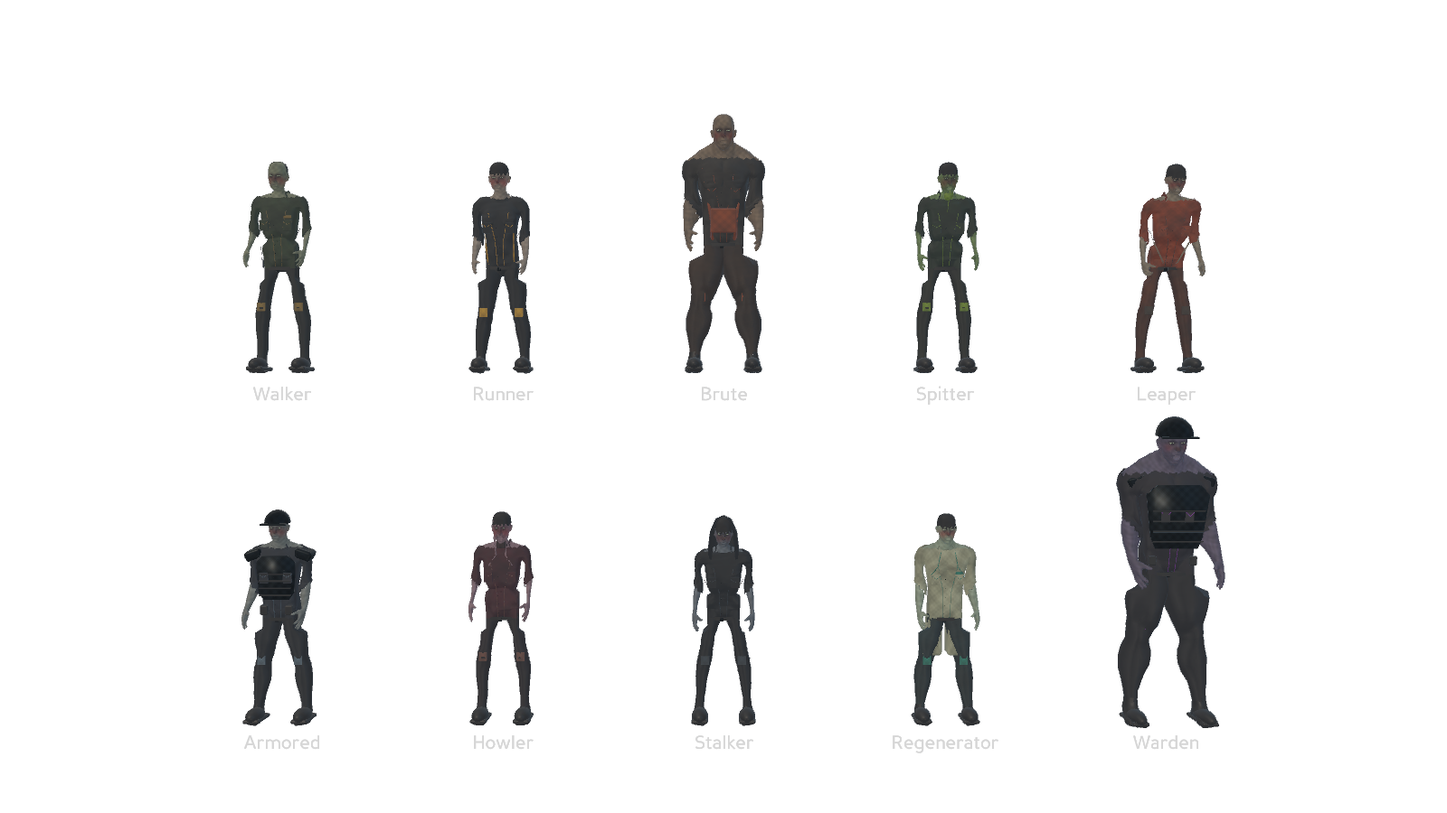
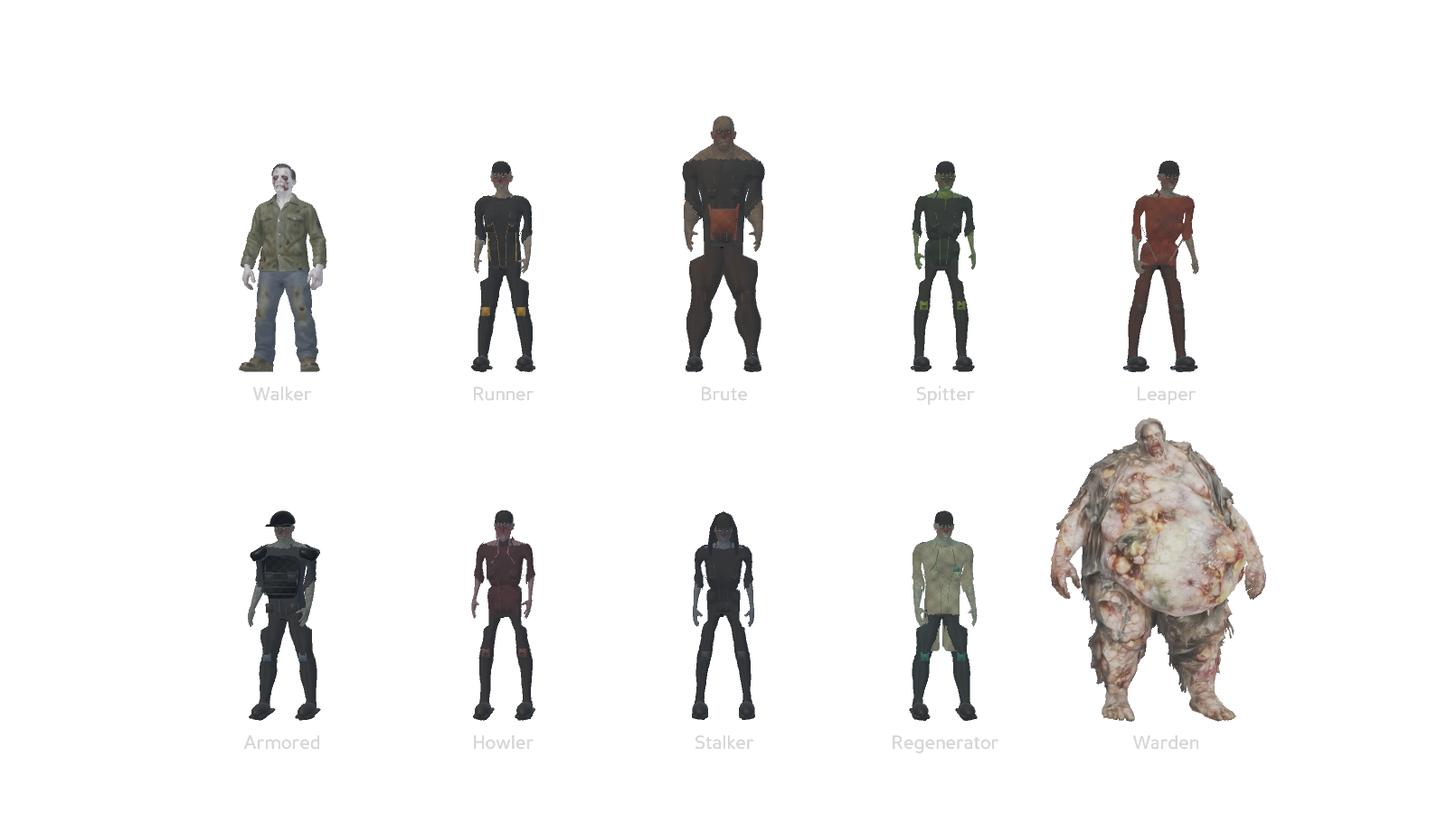
docs(art): publish verified Warden and animated gameplay handoff

diff --git a/assets/previews/gallery.html b/assets/previews/gallery.html
@@ -17,10 +17,10 @@ h1{font-size:32px;line-height:1.2;margin:8px 0 12px;letter-spacing:-1px}p{color:
 <nav class="tabs" aria-label="Vrsta modela"><button id="zombies" aria-pressed="true">Zombiji</button><button id="weapons" aria-pressed="false">Oružje</button><button class="outline" id="engine">Pogledaj u igri ↗</button></nav>
 <section class="hero" aria-label="Izabrani model"><div class="stage"><img id="main-image" alt=""></div><div class="details"><div class="eyebrow" id="design"></div><h2 id="name"></h2><div class="metrics" id="metrics"></div><a class="source" id="blend">Otvori Blender fajl ↗</a><div class="hint">Primer zvuka</div><audio class="sound" id="audio" controls preload="none"></audio><div class="hint">Blender 4.5 / 5.3 · teksture sačuvane u fajlu</div></div></section>
 <div class="cards" id="cards" aria-label="Dostupni modeli"></div>
-</main><footer>Prva anatomska Blender iteracija. Koncept slike ostaju vizuelni cilj; detaljna skeletna animacija i završna obrada mapa tek slede. <a href="../../docs/blender-workshop.md">Radni tok i izvori</a></footer>
-<dialog id="captures"><div class="dialogbar"><strong>Panda3D · stvarni prikaz</strong><button data-capture="zombie-roster.png">Zombiji</button><button data-capture="weapons.png">Oružje</button><button data-capture="gameplay.png">Gameplay</button><button id="close-captures" aria-label="Zatvori pregled">✕</button></div><img id="capture-image" src="zombie-roster.png" alt="Modeli prikazani u igri"></dialog>
+</main><footer>Skeletno animirani modeli, isporučeni Warden i lokalna dorada prvog dvorišta. Ostale mape zadržavaju raniju scenografiju; koncept slike ostaju vizuelni cilj. <a href="../../docs/blender-workshop.md">Radni tok i izvori</a></footer>
+<dialog id="captures"><div class="dialogbar"><strong>Panda3D · stvarni prikaz</strong><button data-capture="zombie-roster.png">Zombiji</button><button data-capture="weapons.png">Oružje</button><button data-capture="gameplay.png">Gameplay</button><button data-capture="gameplay-motion.png">Animacije</button><button id="close-captures" aria-label="Zatvori pregled">✕</button></div><img id="capture-image" src="zombie-roster.png" alt="Modeli prikazani u igri"></dialog>
 <script>
-const data={"zombies": [{"name": "Walker", "design": "The Groundskeeper / Hyper3D Rodin", "image": "characters/walker.png", "blend": "../blender/characters/walker.blend", "audio": "../../breach_shift/data/audio/growl_1.wav", "summary": "75 HP", "metrics": [{"value": 75, "label": "HP"}, {"value": 12, "label": "DAMAGE"}, {"value": "1.2 m/s", "label": "BRZINA"}, {"value": "1.8 m", "label": "VISINA"}]}, {"name": "Runner", "design": "The Night Runner", "image": "characters/runner.png", "blend": "../blender/characters/runner.blend", "audio": "../../breach_shift/data/audio/growl_1.wav", "summary": "100 HP", "metrics": [{"value": 100, "label": "HP"}, {"value": 8, "label": "DAMAGE"}, {"value": "2.8 m/s", "label": "BRZINA"}, {"value": "1.8 m", "label": "VISINA"}]}, {"name": "Brute", "design": "The Foundry Worker", "image": "characters/brute.png", "blend": "../blender/characters/brute.blend", "audio": "../../breach_shift/data/audio/growl_1.wav", "summary": "150 HP", "metrics": [{"value": 150, "label": "HP"}, {"value": 28, "label": "DAMAGE"}, {"value": "0.8 m/s", "label": "BRZINA"}, {"value": "2.2 m", "label": "VISINA"}]}, {"name": "Spitter", "design": "The Contaminated", "image": "characters/spitter.png", "blend": "../blender/characters/spitter.blend", "audio": "../../breach_shift/data/audio/growl_1.wav", "summary": "180 HP", "metrics": [{"value": 180, "label": "HP"}, {"value": 10, "label": "DAMAGE"}, {"value": "1.1 m/s", "label": "BRZINA"}, {"value": "1.8 m", "label": "VISINA"}]}, {"name": "Leaper", "design": "The Escaped Patient", "image": "characters/leaper.png", "blend": "../blender/characters/leaper.blend", "audio": "../../breach_shift/data/audio/growl_1.wav", "summary": "220 HP", "metrics": [{"value": 220, "label": "HP"}, {"value": 18, "label": "DAMAGE"}, {"value": "1.5 m/s", "label": "BRZINA"}, {"value": "1.8 m", "label": "VISINA"}]}, {"name": "Armored", "design": "The Riot Guard", "image": "characters/armored.png", "blend": "../blender/characters/armored.blend", "audio": "../../breach_shift/data/audio/growl_1.wav", "summary": "270 HP", "metrics": [{"value": 270, "label": "HP"}, {"value": 16, "label": "DAMAGE"}, {"value": "1.0 m/s", "label": "BRZINA"}, {"value": "1.8 m", "label": "VISINA"}]}, {"name": "Howler", "design": "The Mourner", "image": "characters/howler.png", "blend": "../blender/characters/howler.blend", "audio": "../../breach_shift/data/audio/growl_1.wav", "summary": "320 HP", "metrics": [{"value": 320, "label": "HP"}, {"value": 11, "label": "DAMAGE"}, {"value": "0.9 m/s", "label": "BRZINA"}, {"value": "1.8 m", "label": "VISINA"}]}, {"name": "Stalker", "design": "The Watcher", "image": "characters/stalker.png", "blend": "../blender/characters/stalker.blend", "audio": "../../breach_shift/data/audio/growl_1.wav", "summary": "380 HP", "metrics": [{"value": 380, "label": "HP"}, {"value": 14, "label": "DAMAGE"}, {"value": "1.8 m/s", "label": "BRZINA"}, {"value": "1.8 m", "label": "VISINA"}]}, {"name": "Regenerator", "design": "The Researcher", "image": "characters/regenerator.png", "blend": "../blender/characters/regenerator.blend", "audio": "../../breach_shift/data/audio/growl_1.wav", "summary": "450 HP", "metrics": [{"value": 450, "label": "HP"}, {"value": 15, "label": "DAMAGE"}, {"value": "1.0 m/s", "label": "BRZINA"}, {"value": "1.8 m", "label": "VISINA"}]}, {"name": "Warden", "design": "The Breach Warden", "image": "characters/warden.png", "blend": "../blender/characters/warden.blend", "audio": "../../breach_shift/data/audio/growl_1.wav", "summary": "800 HP", "metrics": [{"value": 800, "label": "HP"}, {"value": 35, "label": "DAMAGE"}, {"value": "0.9 m/s", "label": "BRZINA"}, {"value": "2.6 m", "label": "VISINA"}]}], "weapons": [{"name": "Pistol", "design": "Breach Shift · originalni model", "image": "weapons/pistol.png", "blend": "../blender/weapons/pistol.blend", "audio": "../../breach_shift/data/audio/pistol.wav", "summary": "25 DMG", "metrics": [{"value": 25, "label": "DAMAGE PO HICU"}, {"value": 12, "label": "KAPACITET OKVIRA"}, {"value": "1.5s", "label": "PUNJENJE"}, {"value": 1, "label": "PROJEKTILA PO HICU"}]}, {"name": "SMG", "design": "Breach Shift · originalni model", "image": "weapons/smg.png", "blend": "../blender/weapons/smg.blend", "audio": "../../breach_shift/data/audio/smg.wav", "summary": "14 DMG", "metrics": [{"value": 14, "label": "DAMAGE PO HICU"}, {"value": 30, "label": "KAPACITET OKVIRA"}, {"value": "1.8s", "label": "PUNJENJE"}, {"value": 1, "label": "PROJEKTILA PO HICU"}]}, {"name": "Rifle", "design": "Hyper3D Rodin", "image": "weapons/rifle.png", "blend": "../blender/weapons/rifle.blend", "audio": "../../breach_shift/data/audio/rifle.wav", "summary": "38 DMG", "metrics": [{"value": 38, "label": "DAMAGE PO HICU"}, {"value": 24, "label": "KAPACITET OKVIRA"}, {"value": "2.1s", "label": "PUNJENJE"}, {"value": 1, "label": "PROJEKTILA PO HICU"}]}, {"name": "Shotgun", "design": "Breach Shift · originalni model", "image": "weapons/shotgun.png", "blend": "../blender/weapons/shotgun.blend", "audio": "../../breach_shift/data/audio/shotgun.wav", "summary": "96 DMG", "metrics": [{"value": 96, "label": "DAMAGE PO HICU"}, {"value": 6, "label": "KAPACITET OKVIRA"}, {"value": "2.8s", "label": "PUNJENJE"}, {"value": 6, "label": "PROJEKTILA PO HICU"}]}]};let category='zombies',selected=0;
+const data={"zombies": [{"name": "Walker", "design": "The Groundskeeper / Hyper3D Rodin", "image": "characters/walker.png", "blend": "../blender/characters/walker.blend", "audio": "../../breach_shift/data/audio/growl_1.wav", "summary": "75 HP", "metrics": [{"value": 75, "label": "HP"}, {"value": 12, "label": "DAMAGE"}, {"value": "1.44 m/s", "label": "POTERA"}, {"value": "1.8 m", "label": "VISINA"}]}, {"name": "Runner", "design": "The Night Runner / Breach Shift / MakeHuman", "image": "characters/runner.png", "blend": "../blender/characters/runner.blend", "audio": "../../breach_shift/data/audio/growl_1.wav", "summary": "100 HP", "metrics": [{"value": 100, "label": "HP"}, {"value": 8, "label": "DAMAGE"}, {"value": "3.36 m/s", "label": "POTERA"}, {"value": "1.8 m", "label": "VISINA"}]}, {"name": "Brute", "design": "The Foundry Worker / Breach Shift / MakeHuman", "image": "characters/brute.png", "blend": "../blender/characters/brute.blend", "audio": "../../breach_shift/data/audio/growl_1.wav", "summary": "150 HP", "metrics": [{"value": 150, "label": "HP"}, {"value": 28, "label": "DAMAGE"}, {"value": "0.96 m/s", "label": "POTERA"}, {"value": "2.2 m", "label": "VISINA"}]}, {"name": "Spitter", "design": "The Contaminated / Breach Shift / MakeHuman", "image": "characters/spitter.png", "blend": "../blender/characters/spitter.blend", "audio": "../../breach_shift/data/audio/growl_1.wav", "summary": "180 HP", "metrics": [{"value": 180, "label": "HP"}, {"value": 10, "label": "DAMAGE"}, {"value": "1.32 m/s", "label": "POTERA"}, {"value": "1.8 m", "label": "VISINA"}]}, {"name": "Leaper", "design": "The Escaped Patient / Breach Shift / MakeHuman", "image": "characters/leaper.png", "blend": "../blender/characters/leaper.blend", "audio": "../../breach_shift/data/audio/growl_1.wav", "summary": "220 HP", "metrics": [{"value": 220, "label": "HP"}, {"value": 18, "label": "DAMAGE"}, {"value": "1.80 m/s", "label": "POTERA"}, {"value": "1.8 m", "label": "VISINA"}]}, {"name": "Armored", "design": "The Riot Guard / Breach Shift / MakeHuman", "image": "characters/armored.png", "blend": "../blender/characters/armored.blend", "audio": "../../breach_shift/data/audio/growl_1.wav", "summary": "270 HP", "metrics": [{"value": 270, "label": "HP"}, {"value": 16, "label": "DAMAGE"}, {"value": "1.20 m/s", "label": "POTERA"}, {"value": "1.8 m", "label": "VISINA"}]}, {"name": "Howler", "design": "The Mourner / Breach Shift / MakeHuman", "image": "characters/howler.png", "blend": "../blender/characters/howler.blend", "audio": "../../breach_shift/data/audio/growl_1.wav", "summary": "320 HP", "metrics": [{"value": 320, "label": "HP"}, {"value": 11, "label": "DAMAGE"}, {"value": "1.08 m/s", "label": "POTERA"}, {"value": "1.8 m", "label": "VISINA"}]}, {"name": "Stalker", "design": "The Watcher / Breach Shift / MakeHuman", "image": "characters/stalker.png", "blend": "../blender/characters/stalker.blend", "audio": "../../breach_shift/data/audio/growl_1.wav", "summary": "380 HP", "metrics": [{"value": 380, "label": "HP"}, {"value": 14, "label": "DAMAGE"}, {"value": "2.16 m/s", "label": "POTERA"}, {"value": "1.8 m", "label": "VISINA"}]}, {"name": "Regenerator", "design": "The Researcher / Breach Shift / MakeHuman", "image": "characters/regenerator.png", "blend": "../blender/characters/regenerator.blend", "audio": "../../breach_shift/data/audio/growl_1.wav", "summary": "450 HP", "metrics": [{"value": 450, "label": "HP"}, {"value": 15, "label": "DAMAGE"}, {"value": "1.20 m/s", "label": "POTERA"}, {"value": "1.8 m", "label": "VISINA"}]}, {"name": "Warden", "design": "The Breach Warden / User-supplied", "image": "characters/warden.png", "blend": "../blender/characters/warden.blend", "audio": "../../breach_shift/data/audio/growl_1.wav", "summary": "800 HP", "metrics": [{"value": 800, "label": "HP"}, {"value": 35, "label": "DAMAGE"}, {"value": "1.08 m/s", "label": "POTERA"}, {"value": "2.6 m", "label": "VISINA"}]}], "weapons": [{"name": "Pistol", "design": "Breach Shift · originalni model", "image": "weapons/pistol.png", "blend": "../blender/weapons/pistol.blend", "audio": "../../breach_shift/data/audio/pistol.wav", "summary": "25 DMG", "metrics": [{"value": 25, "label": "DAMAGE PO HICU"}, {"value": 12, "label": "KAPACITET OKVIRA"}, {"value": "1.5s", "label": "PUNJENJE"}, {"value": 1, "label": "PROJEKTILA PO HICU"}]}, {"name": "SMG", "design": "Breach Shift · originalni model", "image": "weapons/smg.png", "blend": "../blender/weapons/smg.blend", "audio": "../../breach_shift/data/audio/smg.wav", "summary": "14 DMG", "metrics": [{"value": 14, "label": "DAMAGE PO HICU"}, {"value": 30, "label": "KAPACITET OKVIRA"}, {"value": "1.8s", "label": "PUNJENJE"}, {"value": 1, "label": "PROJEKTILA PO HICU"}]}, {"name": "Rifle", "design": "Hyper3D Rodin", "image": "weapons/rifle.png", "blend": "../blender/weapons/rifle.blend", "audio": "../../breach_shift/data/audio/rifle.wav", "summary": "38 DMG", "metrics": [{"value": 38, "label": "DAMAGE PO HICU"}, {"value": 24, "label": "KAPACITET OKVIRA"}, {"value": "2.1s", "label": "PUNJENJE"}, {"value": 1, "label": "PROJEKTILA PO HICU"}]}, {"name": "Shotgun", "design": "Breach Shift · originalni model", "image": "weapons/shotgun.png", "blend": "../blender/weapons/shotgun.blend", "audio": "../../breach_shift/data/audio/shotgun.wav", "summary": "96 DMG", "metrics": [{"value": 96, "label": "DAMAGE PO HICU"}, {"value": 6, "label": "KAPACITET OKVIRA"}, {"value": "2.8s", "label": "PUNJENJE"}, {"value": 6, "label": "PROJEKTILA PO HICU"}]}]};let category='zombies',selected=0;
 function choose(index){selected=index;const model=data[category][index];document.getElementById('main-image').src=model.image;document.getElementById('main-image').alt=model.name+' — Blender render';document.getElementById('name').textContent=model.name;document.getElementById('design').textContent=model.design;document.getElementById('metrics').innerHTML=model.metrics.map(m=>'<div class="metric"><b>'+m.value+'</b><span>'+m.label+'</span></div>').join('');document.getElementById('blend').href=model.blend;const sound=document.getElementById('audio');sound.pause();sound.src=model.audio;document.querySelectorAll('.card').forEach((card,i)=>card.setAttribute('aria-pressed',String(i===index)));}
 function show(group){category=group;for(const id of ['zombies','weapons'])document.getElementById(id).setAttribute('aria-pressed',String(id===group));const cards=document.getElementById('cards');cards.replaceChildren();data[group].forEach((model,i)=>{const button=document.createElement('button');button.className='card';button.setAttribute('aria-label',model.name);button.innerHTML='<img src="'+model.image+'" alt="" loading="lazy"><strong>'+model.name+'</strong><small>'+model.summary+'</small>';button.onclick=()=>choose(i);cards.append(button)});choose(0)}
 document.getElementById('zombies').onclick=()=>show('zombies');document.getElementById('weapons').onclick=()=>show('weapons');document.getElementById('engine').onclick=()=>document.getElementById('captures').showModal();document.getElementById('close-captures').onclick=()=>document.getElementById('captures').close();for(const button of document.querySelectorAll('[data-capture]'))button.onclick=()=>document.getElementById('capture-image').src=button.dataset.capture;show('zombies');

diff --git a/tools/art/build_gallery.py b/tools/art/build_gallery.py
@@ -28,8 +28,8 @@ h1{font-size:32px;line-height:1.2;margin:8px 0 12px;letter-spacing:-1px}p{color:
 <nav class="tabs" aria-label="Vrsta modela"><button id="zombies" aria-pressed="true">Zombiji</button><button id="weapons" aria-pressed="false">Oružje</button><button class="outline" id="engine">Pogledaj u igri ↗</button></nav>
 <section class="hero" aria-label="Izabrani model"><div class="stage"><img id="main-image" alt=""></div><div class="details"><div class="eyebrow" id="design"></div><h2 id="name"></h2><div class="metrics" id="metrics"></div><a class="source" id="blend">Otvori Blender fajl ↗</a><div class="hint">Primer zvuka</div><audio class="sound" id="audio" controls preload="none"></audio><div class="hint">Blender 4.5 / 5.3 · teksture sačuvane u fajlu</div></div></section>
 <div class="cards" id="cards" aria-label="Dostupni modeli"></div>
-</main><footer>Prva anatomska Blender iteracija. Koncept slike ostaju vizuelni cilj; detaljna skeletna animacija i završna obrada mapa tek slede. <a href="../../docs/blender-workshop.md">Radni tok i izvori</a></footer>
-<dialog id="captures"><div class="dialogbar"><strong>Panda3D · stvarni prikaz</strong><button data-capture="zombie-roster.png">Zombiji</button><button data-capture="weapons.png">Oružje</button><button data-capture="gameplay.png">Gameplay</button><button id="close-captures" aria-label="Zatvori pregled">✕</button></div><img id="capture-image" src="zombie-roster.png" alt="Modeli prikazani u igri"></dialog>
+</main><footer>Skeletno animirani modeli, isporučeni Warden i lokalna dorada prvog dvorišta. Ostale mape zadržavaju raniju scenografiju; koncept slike ostaju vizuelni cilj. <a href="../../docs/blender-workshop.md">Radni tok i izvori</a></footer>
+<dialog id="captures"><div class="dialogbar"><strong>Panda3D · stvarni prikaz</strong><button data-capture="zombie-roster.png">Zombiji</button><button data-capture="weapons.png">Oružje</button><button data-capture="gameplay.png">Gameplay</button><button data-capture="gameplay-motion.png">Animacije</button><button id="close-captures" aria-label="Zatvori pregled">✕</button></div><img id="capture-image" src="zombie-roster.png" alt="Modeli prikazani u igri"></dialog>
 <script>
 const data=__DATA__;let category='zombies',selected=0;
 function choose(index){selected=index;const model=data[category][index];document.getElementById('main-image').src=model.image;document.getElementById('main-image').alt=model.name+' — Blender render';document.getElementById('name').textContent=model.name;document.getElementById('design').textContent=model.design;document.getElementById('metrics').innerHTML=model.metrics.map(m=>'<div class="metric"><b>'+m.value+'</b><span>'+m.label+'</span></div>').join('');document.getElementById('blend').href=model.blend;const sound=document.getElementById('audio');sound.pause();sound.src=model.audio;document.querySelectorAll('.card').forEach((card,i)=>card.setAttribute('aria-pressed',String(i===index)));}
@@ -52,7 +52,7 @@ def main():
             "image": f"characters/{kind.value}.png", "blend": f"../blender/characters/{kind.value}.blend",
             "audio": "../../breach_shift/data/audio/growl_1.wav", "summary": f"{spec.health} HP",
             "metrics": [{"value": spec.health, "label": "HP"}, {"value": spec.damage, "label": "DAMAGE"},
-                        {"value": f"{spec.speed} m/s", "label": "BRZINA"}, {"value": f"{spec.height} m", "label": "VISINA"}]})
+                        {"value": f"{spec.speed*1.2:.2f} m/s", "label": "POTERA"}, {"value": f"{spec.height} m", "label": "VISINA"}]})
     for kind in WEAPON_ORDER:
         spec = WEAPON_SPECS[kind]
         source = provider("weapons", kind) or "Breach Shift · originalni model"

diff --git a/tools/blender/render_production_asset.py b/tools/blender/render_production_asset.py
@@ -13,10 +13,19 @@ def render(source, output, category):
     bpy.ops.import_scene.gltf(filepath=str(source.resolve()))
     bpy.context.view_layer.update()
     scene=bpy.context.scene
-    points=[obj.matrix_world@Vector(corner) for obj in scene.objects if obj.type=='MESH' for corner in obj.bound_box]
+    points=[]
+    graph=bpy.context.evaluated_depsgraph_get()
+    for obj in scene.objects:
+        if obj.type!='MESH':continue
+        evaluated=obj.evaluated_get(graph)
+        mesh=evaluated.to_mesh()
+        points.extend(evaluated.matrix_world@vertex.co for vertex in mesh.vertices)
+        evaluated.to_mesh_clear()
     low=Vector(tuple(min(point[axis] for point in points) for axis in range(3)))
     high=Vector(tuple(max(point[axis] for point in points) for axis in range(3)))
     center=(low+high)/2;span=max(high-low)
+    if category=='characters':
+        center.z+=span*.15
     scene.render.engine='BLENDER_EEVEE'
     scene.render.resolution_x,scene.render.resolution_y=(1440,900) if category=='weapons' else (960,1200)
     scene.render.resolution_percentage=100
@@ -24,13 +33,15 @@ def render(source, output, category):
     scene.world.use_nodes=True
     scene.world.node_tree.nodes['Background'].inputs['Color'].default_value=(.025,.035,.05,1)
     scene.world.node_tree.nodes['Background'].inputs['Strength'].default_value=.5
+    if category=='characters':
+        scene.world.node_tree.nodes['Background'].inputs['Color'].default_value=(.10,.13,.17,1)
     for name,position,power,color in (
             ('key',(2,3,3),1100,(1,.86,.7)),
             ('fill',(-2,2,2),750,(.62,.78,1)),
             ('rim',(0,-3,3),1500,(.8,.9,1))):
         data=bpy.data.lights.new(name,'AREA');data.energy=power;data.color=color;data.size=span*1.6
         obj=bpy.data.objects.new(name,data);bpy.context.collection.objects.link(obj)
-        obj.location=center+Vector(position)*span
+        obj.location=center+Vector(position)*span*(.55 if category=='characters' else 1)
         obj.rotation_euler=(center-obj.location).to_track_quat('-Z','Y').to_euler()
     data=bpy.data.cameras.new('Review_camera');camera=bpy.data.objects.new('Review_camera',data)
     bpy.context.collection.objects.link(camera)

diff --git a/docs/warden-and-motion.md b/docs/warden-and-motion.md
@@ -1,0 +1,61 @@
+# Supplied Warden and local motion pass
+
+The user-supplied PBR GLB replaces the Warden on map 10. It was imported through
+the active local BlenderMCP connection and inspected with
+`get_viewport_screenshot`. No fal.ai generation, retry or paid add-on was used.
+
+| Measurement | Supplied mesh | Game mesh |
+| --- | --- | --- |
+| Triangles | 500,000 | 11,800 |
+| Dimensions (X / Y / Z) | 1.366 / 0.928 / 1.893 m | 1.876 / 1.281 / 2.600 m |
+| Forward / up | -Y / +Z | +Y / +Z |
+| PBR maps | Three embedded 2K maps | Three embedded 2K maps |
+| Skeleton | None | 17 bones, normalized four-weight skin |
+
+The [game GLB](../assets/models/characters/warden.glb) and
+[packed editable source](../assets/blender/characters/warden.blend) retain UVs
+and a hidden detailed source. The [viewport inspection](../assets/previews/characters/warden-viewport.png)
+shows the reimported optimized export. Transforms are applied, feet sit at Z=0,
+and one unit is one metre. Standard glTF Y-up encoding is converted correctly
+by `panda3d-gltf`.
+
+Eight earlier MakeHuman/Breach Shift character designs also receive local
+humanoid rigs and UV-preserving decimation: 11,798-11,800 triangles each. The
+existing generated Walker remains at 11,800. These are edits to retained assets,
+with their original provenance preserved, rather than new AI generations.
+
+Movement is driven by distance travelled, so blocked and idle enemies stop
+cycling their legs. Turning, arm swing, knees, feet, hips, torso and breathing
+blend together. Windups and strikes add combat poses; leapers tuck their legs
+in the air. Corpses lose collision immediately, fall, and are cleaned up after
+the existing ten-second lifetime. Boss routes use clearance for the wider body.
+
+All four weapons have local reload hand/weapon motion aligned to the actual
+reload timer, plus drawing, breathing, locomotion, look sway and recoil. Switching
+slots or retrying clears the reload pose. The weapon shader retains proper
+self-occlusion, and the HUD progress meter does not grant ammo early.
+
+C / Ctrl holds crouch, lowers the eye and collision sphere, and reduces movement
+speed. Standing waits for head clearance under low ceilings. Release, focus
+loss and retry clear the held input. F1 displays controls. The campaign HUD has
+separate health, objective, reality, ammunition and boss panels, with retry/end
+feedback. Quarantine Yard also gains factory facades, trim, road markings,
+dynamic shadows and a visible sky from its existing licensed HDRI.
+
+```powershell
+.\.venv\Scripts\python.exe main.py --level 10
+```
+
+[Animated Panda3D capture](../assets/previews/gameplay-motion.png) and
+[reload/crouch sequence](../assets/previews/reload-crouch-sequence.png) show a
+clearly labelled courtyard animation showcase with a Walker and Warden. The
+regular [gameplay capture](../assets/previews/gameplay.png) shows the actual
+first-map roster. Other nine environments and three weapon meshes remain the
+earlier art; this pass improves their character motion and first-person handling.
+
+Validation covers independent live skin deformation for every character,
+embedded textures, strict budgets, bounds, pursuit clearance, crouch/projectile
+interaction, reload timing/cancellation, weapon depth, all campaign transitions
+and installed-package loading. Authoring scenes are checked in factory Blender
+with auto-execution disabled; image and packed-image paths are relative and
+decompressed scene bytes are scanned for private path prefixes.

diff --git a/docs/production-assets.md b/docs/production-assets.md
@@ -1,7 +1,7 @@
 # Production asset workflow
 
-The first upgraded map is **Quarantine Yard**. The courtyard has 53,020 triangles
-and 13 embedded textures, occupies about 22 MB, and uses metre units, Blender +Y
+The first upgraded map is **Quarantine Yard**. The courtyard has 75,062 triangles
+and 13 embedded textures, occupies about 25 MB, and uses metre units, Blender +Y
 forward / +Z up. The GLB follows standard glTF Y-up encoding; `panda3d-gltf`
 converts it back to Panda3D coordinates. Engine tests verify the resulting bounds.
 The connected Blender 5.3 built this source scene; the retained earlier art
@@ -61,13 +61,13 @@ definition. Shallow debris remains decorative. The map's geometry contract must
 match the loaded level before its GLB replaces the fallback scenery; custom map
 definitions retain their own geometry.
 
-## Rodin weapon handoff
+## Existing Rodin asset handoff
 
-Request only one unique model at a time through `create_rodin_job`, keep job IDs
-and subscription keys in ignored local storage, poll the job, then import the
-completed result. The first rifle and Walker are now installed; see
-[the generated model handoff](./rodin-models.md). The other weapons and zombies
-remain active from the earlier Blender library until individually replaced.
+Paid generation is disabled for the current iteration. Reuse the existing rifle
+and Walker sources and the supplied Warden file; no new provider calls are
+needed. See [the generated model handoff](./rodin-models.md) and
+[the Warden/motion handoff](./warden-and-motion.md). The eight retained authored
+characters now use optimized skinned GLBs; three weapons retain earlier art.
 
 For a completed weapon result, use [the Rodin optimizer](../tools/blender/optimize_rodin.py):
 
@@ -90,7 +90,9 @@ to preserve UVs, fit the character budget and bind a local humanoid skeleton.
 The game uses local packaged assets and performs no runtime downloads. GLB
 validation rejects external resources, custom extras, private filesystem paths,
 invalid buffer lengths and unsupported required extensions. Blender saves strip
-MCP scene settings and embedded scripts; image paths are relative and packed.
+MCP scene settings and embedded scripts; image paths and every packed-image
+source path are relative. The HDRI also has a local visible-sky PNG, while the
+floating-point environment map supplies offline PBR reflections.
 Scene dependencies are saved separately and reopened with a clean factory
 layout, excluding the user's workspace UI and file-browser history. The saved
 file is also scanned after decompression.
@@ -107,5 +109,7 @@ blender --background --factory-startup --disable-autoexec --python-exit-code 1 a
 
 Inspect [actual gameplay](../assets/previews/gameplay.png) separately from
 [the Blender environment render](../assets/previews/quarantine-yard-blender.png).
-The other nine maps, three weapons and nine zombies remain the earlier art pass
-until their individual replacements are ready and verified.
+Industrial facades, shutters, coping, platform ribs and lane markings refine
+the courtyard while retaining its playable collision footprints. The other nine
+maps and three weapons retain their earlier art. The eight earlier character
+designs are locally optimized and fully skinned; they are not new generations.

diff --git a/README.md b/README.md
@@ -6,6 +6,8 @@ types. The game includes ten articulated Blender zombie models, four visible
 weapon models, ammunition pickups and escalating reinforcements. Levels use
 an upgraded first courtyard with Poly Haven PBR architecture and Poly Pizza
 set dressing; the remaining maps retain prototype scenery.
+The supplied Warden sculpt is the final boss. All ten zombies now have skinned
+humanoid rigs, a distance-driven gait, attack poses and a short death animation.
 [Concept art](./assets/concepts) remains the target for later art refinement.
 
 ## Run the game
@@ -21,6 +23,12 @@ Start the campaign from the project directory:
 
 ```powershell
 .\.venv\Scripts\python.exe main.py
+```
+
+To practice against the Warden on the final map:
+
+```powershell
+.\.venv\Scripts\python.exe main.py --level 10
 ```
 
 Start the original three-target training arena:
@@ -73,6 +81,8 @@ See [combat balance](./docs/combat.md) for HP, weapons, loot and reinforcement r
 | Left click / R | Shoot / reload |
 | 1 / 2 / 3 / 4 | Pistol / SMG / rifle / shotgun in the campaign |
 | Space | Jump; release and press again for a double jump |
+| C / Ctrl, held | Crouch with a lower camera/collider and slower movement |
+| F1 | Show/hide the campaign controls panel |
 | Shift | Change reality, with a two-second cooldown |
 | E | Collect the power core or enter an unlocked exit |
 | T | Retry the current map; restart after completing the campaign |
@@ -92,6 +102,9 @@ enemies can be cleared and the exit reached.
 Weapons have distinct firing sounds plus reload and empty-magazine effects.
 Zombies growl, react to hits and death, and announce attacks; their voices are
 positioned in 3D and become quieter with distance. See [audio](./docs/audio.md).
+Reloads animate the weapon and support hand using each weapon's real reload
+duration. Movement, breathing, recoil and drawing blend into the first-person
+pose. Cancelling or switching weapons clears the reload pose and pending ammo.
 
 Enemies pursue the player directly over clear ground, route around cover, and
 approach the nearest reachable side of a sealed barrier while waiting for Shift.

diff --git a/assets/README.md b/assets/README.md
@@ -11,7 +11,7 @@
 | [models/environments](./models/environments) | Courtyard, switching barriers and reusable PBR architecture modules. |
 | [models/props](./models/props) | Six normalized CC0 Poly Pizza props. |
 | [models/weapons](./models/weapons) | Reviewed Rodin rifle GLB with measured muzzle metadata. |
-| [models/characters](./models/characters) | Reviewed skinned Rodin Walker GLB and export metadata. |
+| [models/characters](./models/characters) | Ten optimized, skinned GLBs including the supplied Warden, with measured export metadata. |
 | [designs/characters](./designs/characters) | Individual character proportions, colors and costume styles. |
 | [Runtime characters](../breach_shift/data/models/characters) | Packaged runtime zombie models, including the female Runner. |
 | [Runtime weapons](../breach_shift/data/models/weapons) | Packaged weapon models used by the first-person view. |
@@ -21,13 +21,16 @@
 
 Characters are authored by [the Blender workshop tools](../tools/blender) and
 installed with `python -m breach_shift.art.export` after GLB generation.
-The game loads the compressed BAM.PZ files in a source
-checkout and includes the same runtime models in the installable Python package.
+The game loads the reviewed GLBs for all characters and the rifle, plus the
+three retained compressed BAM.PZ weapon models. The installable package uses
+the same assets and performs no runtime downloads.
 Unused placeholder directories have been removed. PNG concept sheets remain
 visual design references. See [the cleanup audit](../docs/asset-audit.md).
 See [production credits](./LICENSE-PRODUCTION.md) and
 [the production workflow](../docs/production-assets.md) for new assets.
 The [Rodin model handoff](../docs/rodin-models.md) documents the first generated
 rifle and Walker and their locally retained detailed sources.
+See [the supplied Warden and motion handoff](../docs/warden-and-motion.md) and
+[actual animated gameplay](./previews/gameplay-motion.png).
 See [the art brief](../docs/art-direction.md) and
 [the map handoff](../docs/campaign.md#replacement-assets) before adding assets.

diff --git a/docs/combat.md b/docs/combat.md
@@ -21,6 +21,12 @@ armor, cloaking, regeneration and Breach rules still apply.
 Nearby enemies have a name and HP bar. A cloaked Stalker also hides its HP
 display. Walking limbs, hit flashes and attack warnings use independent model
 instances, so animating one enemy does not move another.
+Pursuit movement is 20% faster than the original catalog speed, with the
+existing additional 35% Breach multiplier. The supplied Warden is 2.6 m tall
+with a wider collider and navigation clearance. Its 800 HP and 35-damage stomp
+remain the strongest enemy profile. Footstep cycles follow actual distance;
+knees, elbows, hips, spine and head blend their motion independently. Death
+removes collision immediately and leaves a briefly falling visible body.
 
 ## Weapons
 
@@ -37,6 +43,8 @@ The shotgun traces six spreading pellets at 16 damage each, spending one shell.
 Walls block each pellet independently. All weapons have a distinct visible
 model, gloved player arms, recoil and a short muzzle flash. Switching slots
 preserves ammunition and fire cooldown and cancels an unfinished reload.
+The support hand and weapon animate a reload for its exact gameplay duration;
+the HUD shows progress. Ammunition is granted only when the reload completes.
 Each map checkpoint refills every weapon and retains the selected slot.
 
 ## Ammunition drops

diff --git a/docs/github-progress.md b/docs/github-progress.md
@@ -57,3 +57,16 @@ Use the commands above for the current branch count rather than treating the
 earlier snapshot or pending commits as a credited contribution graph total.
 The follow-up passes 169 tests, including real rendered weapon occlusion and
 independent skinned-vertex deformation, plus the mixed-library export and wheel checks.
+
+## Supplied Warden and motion milestone
+
+Six meaningful follow-up commits cover export/privacy fixes, the supplied boss
+and ten skinned character assets, crouching/map practice, motion/reload/HUD,
+courtyard refinements, and the verified visual handoff. This brings the branch
+to **65 history entries since the baseline**, including merges, with **19 pending
+commits ahead of its default-branch baseline**. These are history counts rather
+than credited profile-contribution totals. PR #16 remains a draft for review.
+
+Validation now passes 184 tests, full character skin deformation, packed-scene
+checks, and a rendered installed-game check outside the source checkout. The
+follow-up reuses supplied and existing local assets without new cloud generation.

diff --git a/docs/blender-workshop.md b/docs/blender-workshop.md
@@ -60,8 +60,9 @@ preview's `--model-dir <directory>` allow checking a candidate before installati
 
 ## Current art limits
 
-These are the first anatomical Blender production sources, not photorealistic
-copies of the concept paintings. They use articulated rigid limb pivots for the
-current lightweight walk animation. Full skeletal locomotion, sculpted close-up
-skin, cloth simulation and final environment art remain later refinements.
-Compare actual Blender and game captures separately from the concept references.
+The eight earlier authored designs retain their original style. All ten current
+runtime characters now have full skinned humanoid rigs with locally driven gait,
+combat and death poses. The generated Walker and supplied Warden use their own
+detailed PBR textures. Cloth simulation and final environment art remain later
+refinements. See [the current motion handoff](./warden-and-motion.md) and compare
+actual Blender/game captures separately from concept references.

diff --git a/docs/rodin-models.md b/docs/rodin-models.md
@@ -30,8 +30,10 @@ while nearby world walls do not hide the weapon.
 
 The mixed-library export command prefers reviewed production GLBs and does not
 recreate superseded BAM aliases. Earlier Blender builders skip migrated kinds
-to protect the generated editable sources. Three other weapons and nine other
-zombies remain the retained earlier art pass.
+to protect reviewed editable sources. The supplied Warden replaces the old
+boss, and eight earlier character designs now use locally optimized skinned
+GLBs. Three weapons retain the earlier art. No additional generation was used
+for the Warden/motion iteration; see [its handoff](./warden-and-motion.md).
 
 Generated-model provider references are [Rodin on fal.ai](https://fal.ai/models/fal-ai/hyper3d/rodin/v2.5/text-to-3d)
 and [Hyper3D](https://hyper3d.ai/). The courtyard's CC0 credits apply to its Poly
